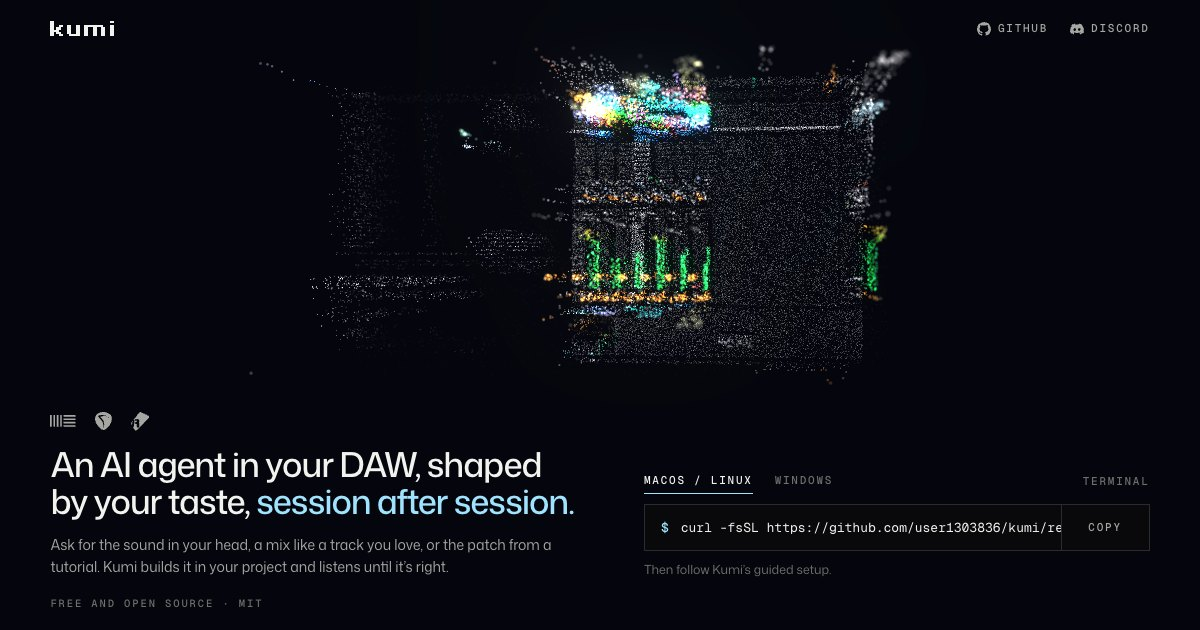
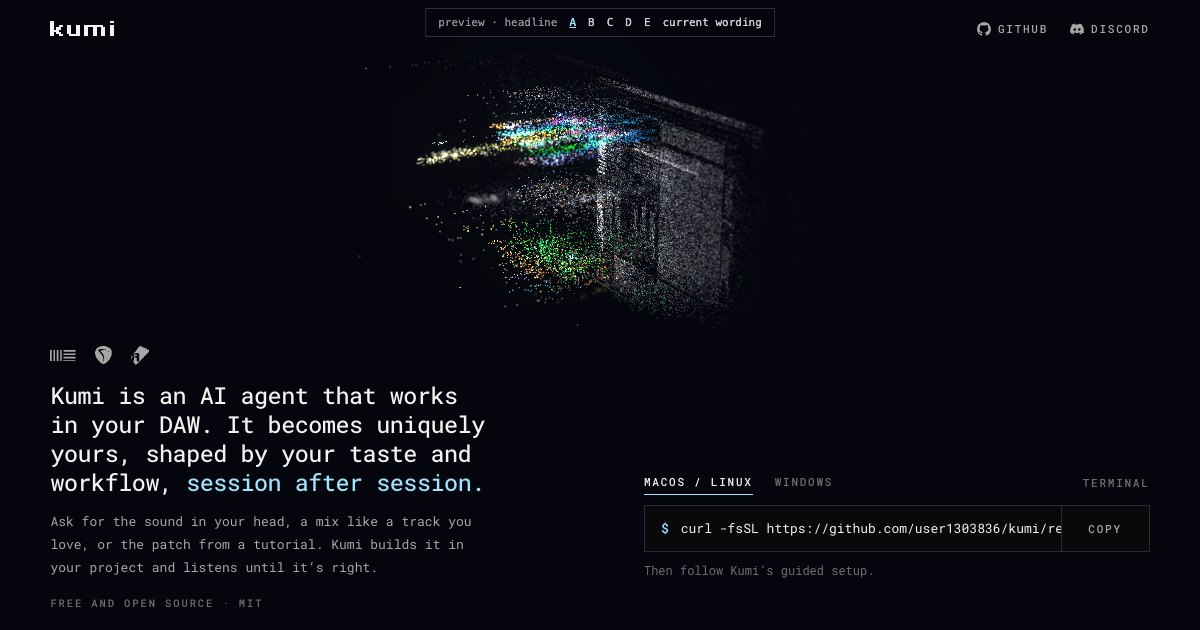
Preview: Roboto Mono, a smaller headline and five new wordings
Not for the live site: noindex, and a bar for flipping between the
"Kumi is … uniquely yours" wordings (A–E) and the current one.

diff --git a/assets/shell.js b/assets/shell.js
@@ -7,8 +7,9 @@
    const shell = KumiShell.mount({
      layout: 'left',          // left | right | bottom | center | top
      theme: 'dark',           // dark | light (sets the default colours)
-     font: 'geist',           // geist | inter-tight | instrument | mona | onest | hanken | schibsted | host | funnel | figtree | albert | manrope
-     mono: 'jetbrains',       // jetbrains | geist-mono | plex | dm | redhat | spline
+     font: 'geist',           // geist | inter-tight | instrument | mona | onest | hanken | schibsted | host | funnel | figtree | albert | manrope,
+                              //   or a monospace key below to set the whole page in it; ?font= overrides
+     mono: 'jetbrains',       // jetbrains | geist-mono | roboto-mono | plex | dm | source | redhat | spline
      colors: { fg, dim, faint, accent, panel, line },   // any subset overrides the theme
      headline: ['An AI agent', 'that works alongside you', 'in your DAW.'],
      kicker: 'Ableton Live · REAPER · Renoise',
@@ -47,13 +48,16 @@
     albert: ['Albert Sans', 'Albert+Sans:wght@300..700'],
     manrope: ['Manrope', 'Manrope:wght@300..700']
   };
+  // monospaces; any of these can also be the page's `font`, and then the whole page is set in it
   var MONOS = {
-    jetbrains: ['JetBrains Mono', 'JetBrains+Mono:wght@400..600'],
-    'geist-mono': ['Geist Mono', 'Geist+Mono:wght@400..600'],
-    plex: ['IBM Plex Mono', 'IBM+Plex+Mono:wght@400;500'],
-    dm: ['DM Mono', 'DM+Mono:wght@400;500'],
-    redhat: ['Red Hat Mono', 'Red+Hat+Mono:wght@400..600'],
-    spline: ['Spline Sans Mono', 'Spline+Sans+Mono:wght@400..600']
+    jetbrains: ['JetBrains Mono', 'JetBrains+Mono:wght@300..700'],
+    'geist-mono': ['Geist Mono', 'Geist+Mono:wght@300..700'],
+    'roboto-mono': ['Roboto Mono', 'Roboto+Mono:wght@300..700'],
+    plex: ['IBM Plex Mono', 'IBM+Plex+Mono:wght@300;400;500;600'],
+    dm: ['DM Mono', 'DM+Mono:wght@300;400;500'],
+    source: ['Source Code Pro', 'Source+Code+Pro:wght@300..700'],
+    redhat: ['Red Hat Mono', 'Red+Hat+Mono:wght@300..700'],
+    spline: ['Spline Sans Mono', 'Spline+Sans+Mono:wght@300..700']
   };
   var THEMES = {
     dark: { fg: '#f2f2ef', dim: '#a6a6a2', faint: '#6e6e6b', accent: '#ff4f7b', panel: 'rgba(10,10,10,0.66)', line: 'rgba(255,255,255,0.14)' },
@@ -206,10 +210,14 @@
   function mount(o) {
     o = o || {};
     var K = window.KUMI;
-    var font = FONTS[o.font] || FONTS.geist, mono = MONOS[o.mono] || MONOS.jetbrains;
+    var params = new URLSearchParams(location.search);
+    // ?font= picks the face for comparing; a monospace there sets the whole page in it
+    var fontKey = (FONTS[params.get('font')] || MONOS[params.get('font')]) ? params.get('font') : o.font;
+    var allMono = !!MONOS[fontKey];
+    var font = allMono ? MONOS[fontKey] : FONTS[fontKey] || FONTS.geist, mono = allMono ? MONOS[fontKey] : MONOS[o.mono] || MONOS.jetbrains;
     var link = document.createElement('link');
     link.rel = 'stylesheet';
-    link.href = 'https://fonts.googleapis.com/css2?family=' + font[1] + '&family=' + mono[1] + '&display=swap';
+    link.href = 'https://fonts.googleapis.com/css2?family=' + font[1] + (mono !== font ? '&family=' + mono[1] : '') + '&display=swap';
     document.head.appendChild(link);
     document.documentElement.classList.add('ks-root');
 
@@ -218,19 +226,21 @@
     var root = el('div', 'ks');
     root.dataset.layout = o.layout || 'left';
     root.dataset.theme = o.theme === 'light' ? 'light' : 'dark';
+    root.dataset.type = allMono ? 'mono' : 'sans';
     root.style.setProperty('--ks-sans', '"' + font[0] + '", "Helvetica Neue", Arial, sans-serif');
     root.style.setProperty('--ks-mono', '"' + mono[0] + '", ui-monospace, SFMono-Regular, Menlo, monospace');
     ['fg', 'dim', 'faint', 'accent', 'panel', 'line'].forEach(function (k) { root.style.setProperty('--ks-' + k, c[k]); });
 
-    var params = new URLSearchParams(location.search);
     var head = +(params.get('head') || o.head || 0);
-    var lines = ((head && K.headlines && K.headlines[head]) || o.headline || ['An AI agent', 'that works alongside you', 'in your DAW.']).slice();
+    // a headline is three parts (white, grey, accent), or one string in which *starred* phrases take the accent
+    var lines = (head && K.headlines && K.headlines[head]) || o.headline || ['An AI agent', 'that works alongside you', 'in your DAW.'];
+    if (typeof lines !== 'string') lines = lines.slice();
     // how the headline is set: 'tri' (three lines: white, grey, accent), 'two' (the first two parts on one line, the payoff
     // below), 'one' (one flowing sentence), 'label' (the first part as a small label over a statement), 'giant' (the same,
     // the statement very large), 'weight' (three lines in one colour, light to bold)
     var headStyle = params.get('hs') || o.headStyle || 'tri';
     root.dataset.head = headStyle;
-    if ((headStyle === 'label' || headStyle === 'giant') && lines.length === 3) {
+    if ((headStyle === 'label' || headStyle === 'giant') && typeof lines !== 'string' && lines.length === 3) {
       lines[1] = lines[1].replace(/^that /i, '');
       lines[1] = lines[1].charAt(0).toUpperCase() + lines[1].slice(1);
     }
@@ -245,7 +255,16 @@
     var hero = el('main', 'ks-hero');
     var kicker = el('p', 'ks-kicker'); kicker.textContent = o.kicker != null ? o.kicker : 'Ableton Live · REAPER · Renoise';
     var h1 = el('h1', 'ks-h1');
-    lines.forEach(function (l, i) { var s = el('span', 'ks-l' + (i === lines.length - 1 ? 3 : i === 0 ? 1 : 2)); s.textContent = l; h1.appendChild(s); h1.appendChild(document.createTextNode(' ')); });
+    if (typeof lines === 'string') {
+      h1.dataset.accent = 'marked';
+      lines.split(/(\*[^*]+\*)/).forEach(function (seg) {
+        if (!seg) return;
+        var marked = seg.length > 2 && seg.charAt(0) === '*' && seg.charAt(seg.length - 1) === '*';
+        var s = el('span', marked ? 'ks-acc' : 'ks-txt'); s.textContent = marked ? seg.slice(1, -1) : seg; h1.appendChild(s);
+      });
+    } else {
+      lines.forEach(function (l, i) { var s = el('span', 'ks-l' + (i === lines.length - 1 ? 3 : i === 0 ? 1 : 2)); s.textContent = l; h1.appendChild(s); h1.appendChild(document.createTextNode(' ')); });
+    }
     var sub = el('p', 'ks-sub'); sub.textContent = o.sub || 'Kumi reads your project, changes almost anything in it, listens to the result and learns how you work. You ask in plain words; every step lands in its history with an undo.';
     var line = +(params.get('line') || o.line || 0);
     if (line && K.lines && K.lines[line]) sub.textContent = K.lines[line];

diff --git a/index.html b/index.html
@@ -5,6 +5,7 @@
 <meta name="viewport" content="width=device-width,initial-scale=1,viewport-fit=cover">
 <title>Kumi · an AI agent in your DAW</title>
 <meta name="description" content="A free, open-source AI agent that works inside Ableton Live, REAPER and Renoise. Ask for the sound in your head, a mix like a track you love, or the patch from a tutorial: Kumi builds it in your project and listens until it’s right.">
+<meta name="robots" content="noindex">
 <meta name="theme-color" content="#05060d">
 <link rel="icon" href="favicon.svg" type="image/svg+xml">
 <link rel="apple-touch-icon" href="apple-touch-icon.png">
@@ -54,9 +55,9 @@ function stayLit() {
 ambient.addEventListener('loadedmetadata', stayLit);
 const hooks = { daw() {} };
 const shell = KumiShell.mount({
-  layout: LAYOUT, theme: 'dark', font: 'mona', mono: 'geist-mono',
+  layout: LAYOUT, theme: 'dark', font: 'roboto-mono', mono: 'roboto-mono',
   colors: { accent: '#9fe3ff' }, stage: 'self',
-  daws: 'marks', dawsAt: 'kicker', dawColor: 'dim', dawSize: 18, line: 1, demoStyle: 'squares', headStyle: 'one', head: 15,
+  daws: 'marks', dawsAt: 'kicker', dawColor: 'dim', dawSize: 18, line: 1, demoStyle: 'squares', headStyle: 'one', head: 21,
   onDaw: (i, daw) => hooks.daw(i, daw),
   onDemo: (i, d, video) => { if (!video.parentNode) hide(video); want = 1; ambient.pause(); },
   onRelease: () => { want = 0; if (!RM) ambient.play().catch(() => {}); }
@@ -376,5 +377,6 @@ renderer.setAnimationLoop(() => {
   composer.render(dt);
 });
 </script>
+<nav id="pv" aria-label="Preview"><span>preview · headline</span><a data-f="21" href="?head=21">A</a><a data-f="22" href="?head=22">B</a><a data-f="23" href="?head=23">C</a><a data-f="24" href="?head=24">D</a><a data-f="25" href="?head=25">E</a><a data-f="15" href="?head=15">current wording</a></nav><style>#pv{position:fixed;z-index:50;left:50%;top:8px;transform:translateX(-50%);display:flex;flex-wrap:wrap;justify-content:center;gap:4px 12px;width:max-content;max-width:calc(100vw - 24px);padding:6px 12px;background:rgba(5,6,13,.82);border:1px solid rgba(255,255,255,.18);font:500 11px/1.4 ui-monospace,Menlo,monospace;color:#8a8f99;-webkit-backdrop-filter:blur(8px);backdrop-filter:blur(8px)}#pv a{color:#c9cdd4;text-decoration:none}#pv a.on{color:#9fe3ff;text-decoration:underline}</style><script>(function(){var f=new URLSearchParams(location.search).get("head")||"21";document.querySelectorAll("#pv a").forEach(function(a){if(a.dataset.f===f)a.className="on";});})();</script>
 </body>
 </html>

diff --git a/assets/kumi.js b/assets/kumi.js
@@ -248,7 +248,13 @@
       ['Your DAW’s AI agent,', 'shaped by your taste,', 'session after session.'],
       ['An AI agent in your DAW.', 'Shaped by your taste,', 'session after session.'],
       ['An AI agent in your DAW', 'that learns your taste,', 'session after session.'],
-      ['Inside your DAW, an AI agent', 'shaped by your taste,', 'session after session.']
+      ['Inside your DAW, an AI agent', 'shaped by your taste,', 'session after session.'],
+      // 21–25 (2026-10-29): "Kumi is …" and "uniquely yours"; one string each, *starred* = accent
+      'Kumi is an AI agent that works in your DAW. It becomes uniquely yours, shaped by your taste and workflow, *session after session.*',
+      'Kumi is an AI agent that works in your DAW. It becomes *uniquely yours*, shaped by your taste and workflow, session after session.',
+      'Kumi is an AI agent that works in your DAW, and it’s *uniquely yours*: shaped by your taste and the way you work, session after session.',
+      'Kumi is an AI agent that works in your DAW. It’s uniquely yours, shaped by your taste and workflow, *session after session.*',
+      'Kumi is an AI agent that works in your DAW and *becomes yours*, shaped by your taste and workflow, session after session.'
     ],
     // Candidate lines under the headline, for comparing in place: a page shows lines[n] with ?line=n (0 = its own).
     lines: [

diff --git a/assets/shell.css b/assets/shell.css
@@ -225,6 +225,17 @@
 .ks[data-layout="bottom"][data-head="one"] .ks-hero { grid-template-columns: minmax(0, 1fr) minmax(0, min(560px, 46%)); }
 .ks[data-layout="bottom"][data-head="one"] .ks-hero .ks-sub { max-width: none; }
 
+/* one monospace for the whole page (the font option is a monospace): the big lines get a calmer size and natural
+   spacing, since monospaced letters are wider and tight tracking crowds them */
+.ks[data-type="mono"] .ks-h1 { font-weight: 450; letter-spacing: -0.02em; line-height: 1.24; }
+.ks[data-type="mono"][data-head="one"] .ks-h1 { font-size: clamp(20px, 1.95vw, 31px); }
+.ks[data-type="mono"] .ks-sub { font-size: clamp(13px, 0.95vw, 14.5px); line-height: 1.75; }
+.ks[data-type="mono"] .ks-after { font-family: var(--ks-mono); font-size: 12px; }
+
+/* a headline given as one string: plain words in the main colour, *starred* phrases in the accent */
+.ks-h1[data-accent="marked"] span { display: inline; color: var(--ks-fg); }
+.ks-h1[data-accent="marked"] .ks-acc { color: var(--ks-accent); }
+
 /* phones: everything stacks and the page may scroll */
 @media (max-width: 820px) {
   html.ks-root, html.ks-root body { overflow-x: hidden; overflow-y: auto; height: auto; }
